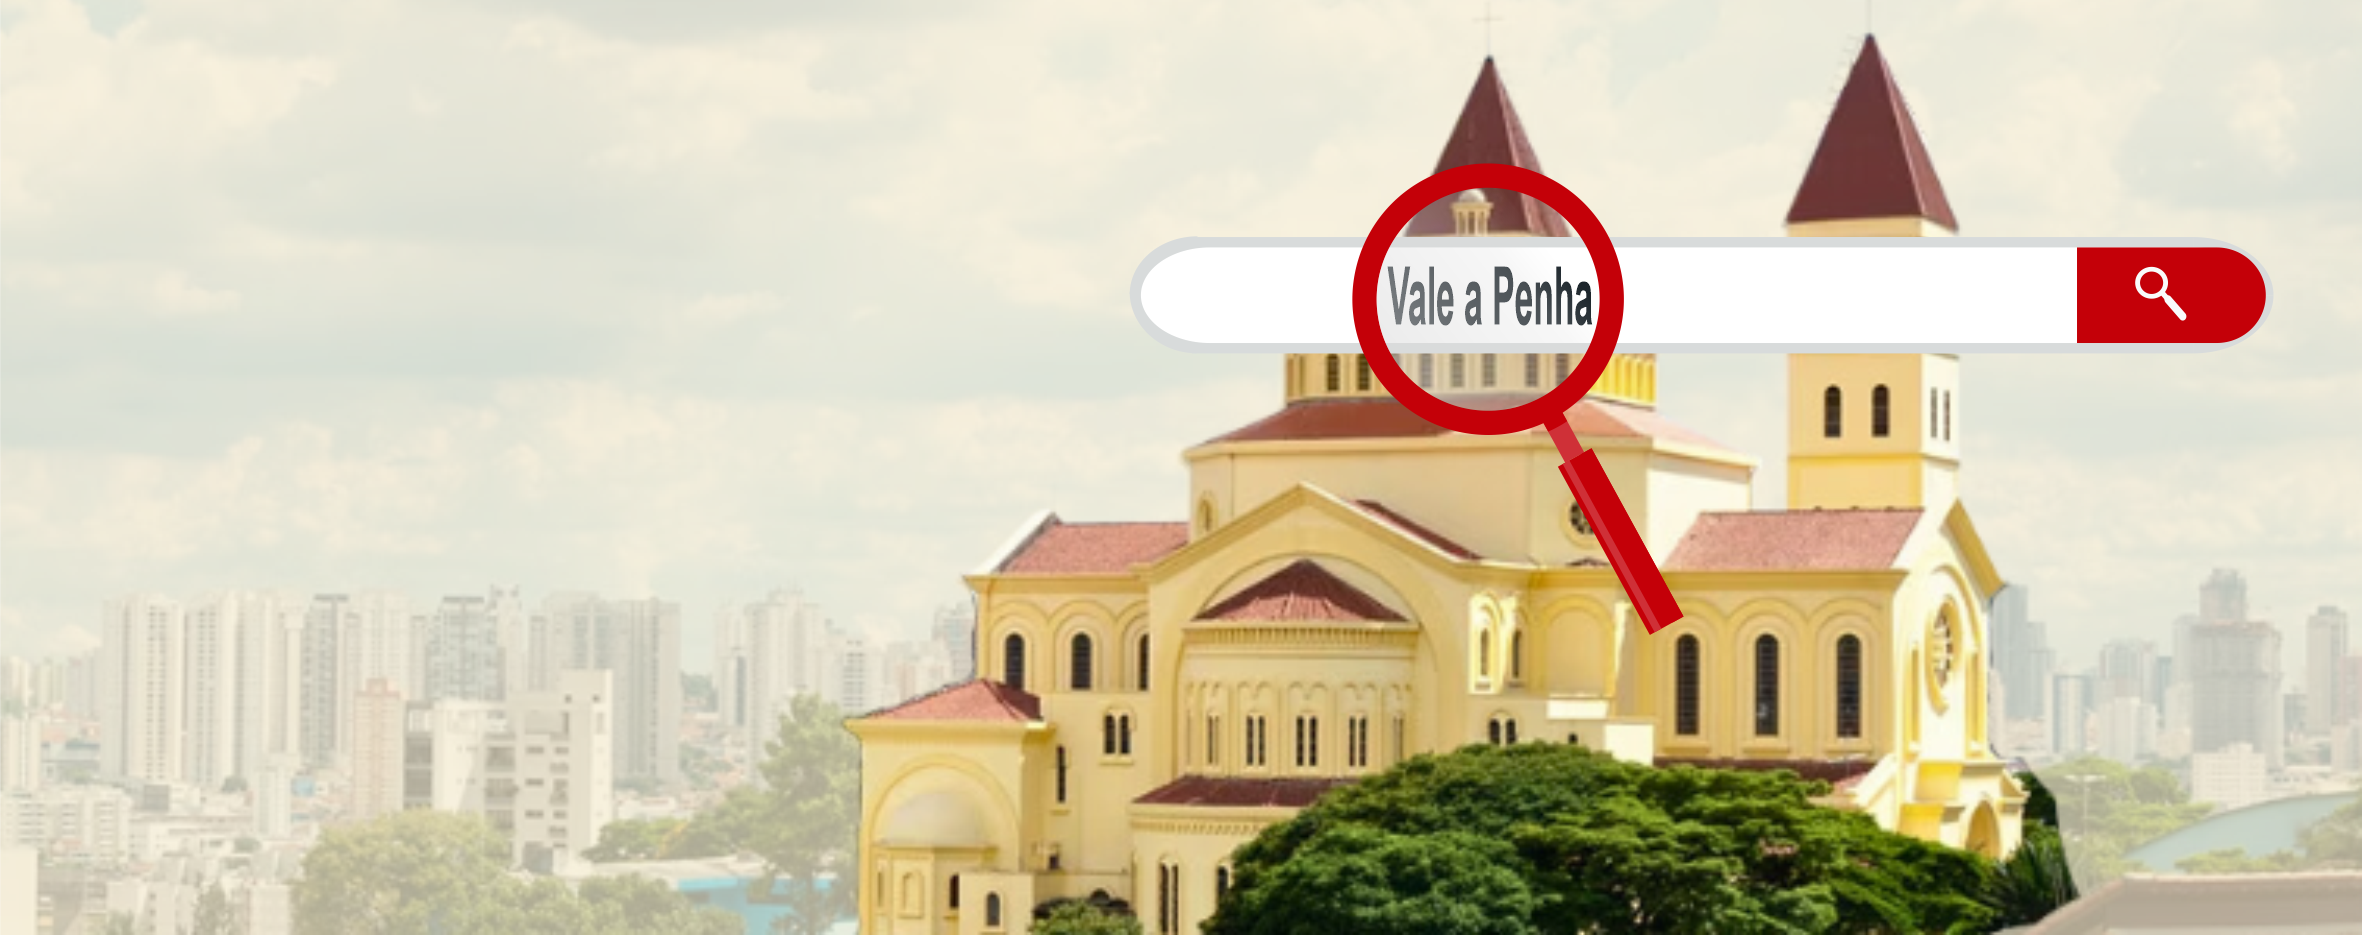
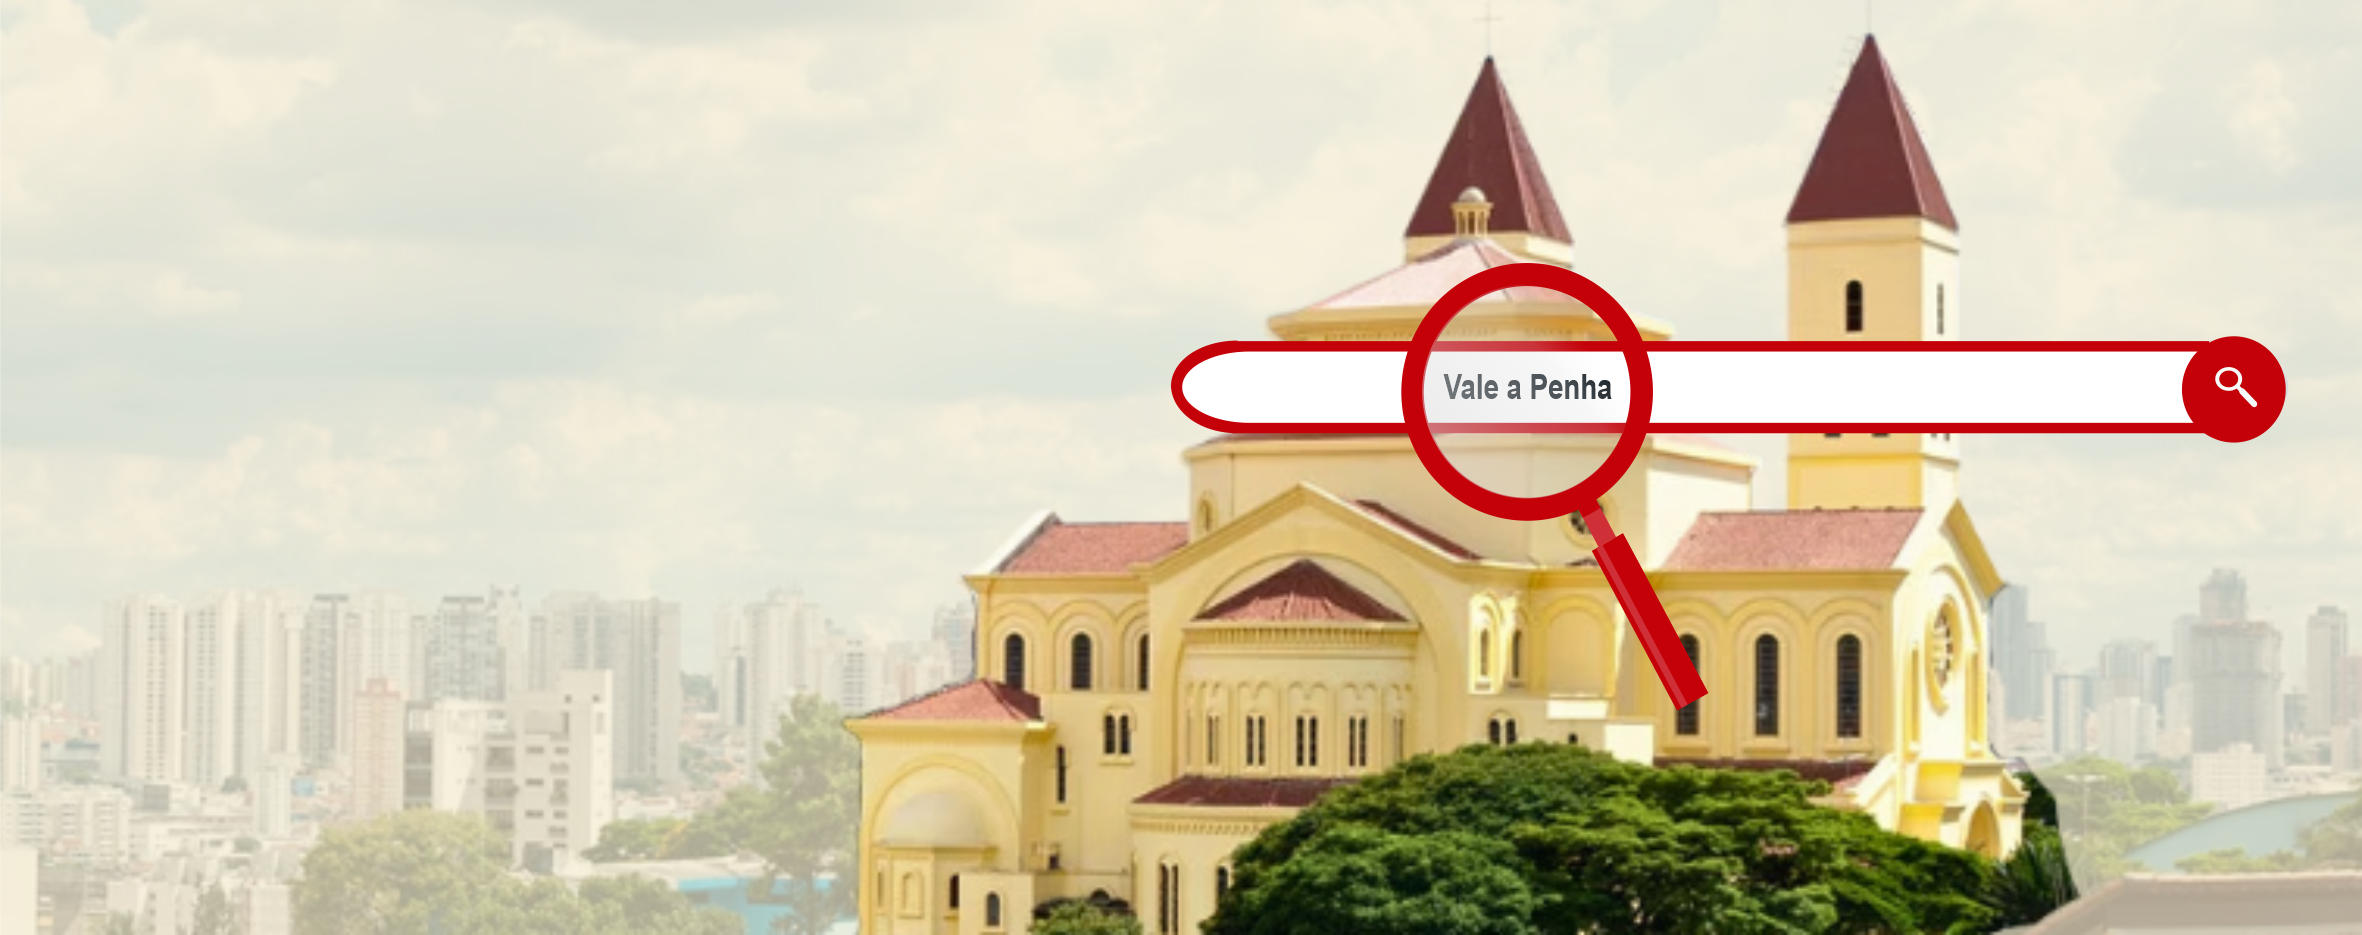
incluindo botão voltar nas páginas adm

Changed region(s): [[0.4636, 0.1551, 0.989, 0.7444]]

diff --git a/adm/adm-atualizar.php b/adm/adm-atualizar.php
@@ -4,8 +4,9 @@ ob_start();
 
 use ValeaPenha\Usuario;
 use ValeaPenha\ControleDeAcesso;
+
 require_once "../vendor/autoload.php";
-$usuario =new Usuario;
+$usuario = new Usuario;
 
 $sessao = new ControleDeAcesso;
 $sessao->verificaAcesso();
@@ -17,34 +18,34 @@ $usuario->setId($_GET['id']);
 $dados = $usuario->listarUmUsuario();
 
 /* Script para atualização */
-if(isset($_POST['atualizar'])){	
-	$usuario->setNome($_POST['nome']);
+if (isset($_POST['atualizar'])) {
+    $usuario->setNome($_POST['nome']);
 
-	$usuario->setSobrenome($_POST['sobrenome']);
+    $usuario->setSobrenome($_POST['sobrenome']);
 
-	$usuario->setCpf($_POST['cpf']);
+    $usuario->setCpf($_POST['cpf']);
 
     $usuario->setTelefone($_POST['telefone']);
 
     $usuario->setEmail($_POST['email']);
 
-    $usuario->setData($usuario->formatarDataParaBanco($_POST["data"])); 
+    $usuario->setData($usuario->formatarDataParaBanco($_POST["data"]));
 
     $usuario->setTipo($_POST['tipo']);
-	
-	//SENHA
-	if(empty($_POST['senha'])){
-		
-		$usuario->setSenha($dados['senha']);
-	}else{
-		
-		$usuario->setSenha(
-			$usuario->verificarSenha($_POST['senha'], $dados['senha'])
-		);
-	}
 
-	$usuario->atualizarUsuarios();
-	header("location:adm.php");	
+    //SENHA
+    if (empty($_POST['senha'])) {
+
+        $usuario->setSenha($dados['senha']);
+    } else {
+
+        $usuario->setSenha(
+            $usuario->verificarSenha($_POST['senha'], $dados['senha'])
+        );
+    }
+
+    $usuario->atualizarUsuarios();
+    header("location:adm.php");
 }
 
 ?>
@@ -265,6 +266,33 @@ if(isset($_POST['atualizar'])){
             color: #000000c0;
             font-size: 16px;
         }
+
+        .comerciante_atualizar {
+            margin-top: 20px;
+            text-align: center;
+            font-size: 20px;
+        }
+
+        .comerciante_atualizar a {
+            font-size: 20px;
+            font-weight: bold;
+            padding-right: 8px;
+            color: #c40008;
+            margin-left: 20px;
+            text-align: center;
+            text-decoration: none;
+            padding: 10px;
+        }
+
+        .comerciante_atualizar a:hover {
+            transform: scale(1.30);
+            transition: 0, 5s;
+            background-color: #c40008;
+            color: #FFFFFF;
+            border-radius: 10px;
+
+
+        }
     </style>
 
 </head>
@@ -277,78 +305,82 @@ if(isset($_POST['atualizar'])){
             <div class="container">
 
                 <div class="section-title">
-                    <h2>Atualizar dados do Usuário</h2>
+                    <h2>Atualizar Tipo do Usuário</h2>
 
                 </div>
 
                 <form class="comerciante__formulario  " action="" method="post" id="form">
 
-                    <div class="comerciante__sobrenome">
-                        <!-- Nome -->
+                    <!-- <div class="comerciante__sobrenome">
+                        Nome
                         <div class="comerciante__input">
                             <label for="nome">Nome:</label>
-                            <input id="nome" type="text" name="nome" placeholder="Digite seu primeiro nome"  value="<?=$dados['nome']?>" required>
+                            <input id="nome" type="text"  name="nome" placeholder="Digite seu primeiro nome"  value="<?= $dados['nome'] ?>" required>
                         </div> 
 
-                        <!-- Sobrenome -->
+                        Sobrenome
                         <div class="comerciante__input">
                             <label for="sobrenome">Sobrenome:</label>
-                            <input id="sobrenome" type="text" name="sobrenome" placeholder="Digite seu sobrenome"  value="<?=$dados['sobrenome']?>" required>
+                            <input id="sobrenome" type="text" name="sobrenome" placeholder="Digite seu sobrenome"  value="<?= $dados['sobrenome'] ?>" required>
                         </div>
                     </div>
 
                     <div class="comerciante__campos">
                         <div class="comerciante__sobrenome">
-                            <!-- CPF -->
+                            CPF
                             <div class="comerciante__input">
                                 <label for="cpf">CPF</label>
-                                <input id="cpf" type="text" name="cpf" placeholder="Digite seu CPF" required maxlength="14"  value="<?=$dados['cpf']?>" >
+                                <input id="cpf" type="text" name="cpf" placeholder="Digite seu CPF" required maxlength="14"  value="<?= $dados['cpf'] ?>" >
                             </div>
 
-                            <!-- Telefone -->
+                            Telefone
                             <div class="comerciante__input">
                                 <label for="telefone">Telefone:</label>
-                                <input id="telefone" type="text" name="telefone" placeholder="(xx) xxxxx-xxxx" required maxlength="14"  value="<?=$dados['telefone']?>" >
+                                <input id="telefone" type="text" name="telefone" placeholder="(xx) xxxxx-xxxx" required maxlength="14"  value="<?= $dados['telefone'] ?>" >
                             </div>
                         </div>
 
-                        <!-- E-mail -->
+                        E-mail
                         <div class="comerciante__input">
                             <label for="email">E-mail:</label>
-                            <input id="email" type="email" name="email" placeholder="Digite seu e-mail" required  value="<?=$dados['email']?>" >
+                            <input id="email" type="email" name="email" placeholder="Digite seu e-mail" required  value="<?= $dados['email'] ?>" >
                         </div>
 
-                        <!-- Senha -->
+                        Senha
                         <div class="comerciante__input">
                             <label for="senha">Senha:</label>
                             <input id="senha" type="password" name="senha" autocomplete="current-password" value=""placeholder="Preencha apenas se for alterar">
                         </div>
 
-                        <!-- Data de Nascimento -->
+                        Data de Nascimento
                         <div class="comerciante__input">
                             <label for="data">Data de Nascimento:</label>
-                            <input id="data" type="date" name="data" placeholder="Digite sua Data de Nascimento" required value="<?=$dados['data']?>">
-                        </div>
+                            <input id="data" type="date" name="data" placeholder="Digite sua Data de Nascimento" required value="<?= $dados['data'] ?>">
+                        </div> -->
 
 
 
-                        <div class="comerciante__input" name="tipo" id="tipo" required>
-                            <label for="tipo">Tipo:</label>
-                            <select class="comerciante__option" name="tipo" id="tipo" required>
-                                <option value=""></option>
+                    <div class="comerciante__input" name="tipo" id="tipo" required>
+                        <label for="tipo">Tipo:</label>
+                        <select class="comerciante__option" name="tipo" id="tipo" required>
+                            <option value=""></option>
 
-                                <option <?php if($dados["tipo"] === "admin" ) echo " selected ";?>  value="admin">Administrador</option>
+                            <option <?php if ($dados["tipo"] === "admin") echo " selected "; ?> value="admin">Administrador</option>
 
-                                <option <?php if($dados["tipo"] === "comerciante" ) echo " selected ";?>  value="comerciante">Comerciante</option>
-                                
-                            </select>
+                            <option <?php if ($dados["tipo"] === "comerciante") echo " selected "; ?> value="comerciante">Comerciante</option>
 
-                            
-                        </div>
+                        </select>
 
-                        <div class="botao__enviar">
-                            <button type="submit" id="submit" name="atualizar">Alterar Cadastro</button>
-                        </div>
+
+                    </div>
+
+                    <div class="botao__enviar">
+                        <button type="submit" id="submit" name="atualizar">Alterar Tipo</button>
+                    </div>
+
+                    <div class="comerciante_atualizar">
+                        <a href="adm.php">Voltar</a>
+                    </div>
 
                 </form>
 
@@ -366,7 +398,7 @@ if(isset($_POST['atualizar'])){
 
 </html>
 
-<?php 
+<?php
 /* Finalizar o Output Buffere (gerenciamento de memória de saída) */
-ob_end_flush(); 
+ob_end_flush();
 ?>

diff --git a/adm/adm.php b/adm/adm.php
@@ -109,9 +109,9 @@ if (isset($_GET['sair'])){$sessao->logout();
             <th>CPF</th>
             <th>Telefone</th>
             <th>E-mail</th>
-            <th>Tipo</th>
-            <!-- <th colspan="3">Botões</th>  -->
-            <th>Atualizar</th>
+            <!-- <th>Tipo</th> -->
+            <th colspan="2">Atualizar Tipo</th> 
+            <!-- <th>Atualizar Tipo</th> -->
             <th>Publicação</th>            
             <th>Excluir</th>
             <th>Status</th>
@@ -124,9 +124,7 @@ if (isset($_GET['sair'])){$sessao->logout();
               <td><?= $itemUsuario["cpf"] ?></td>
               <td><?= $itemUsuario["telefone"] ?></td>
               <td><?= $itemUsuario["email"] ?></td>
-              <td><?= $itemUsuario["tipo"] ?></td>
-
-              
+              <td><?= $itemUsuario["tipo"] ?> </td>              
 
               <!-- Atualizar -->
               <td class="adm__botao">

diff --git a/comerciante/comerciante.php b/comerciante/comerciante.php
@@ -280,7 +280,7 @@ if (isset($_POST['alterar_Cadastro'])) {
               <!-- 1º Instagram Link -->
               <div class="comerciante__input">
                 <label for="link_instagram">Instagram:</label>
-                <input type="url" name="link_instagram" id="link_instagram" placeholder="Link do instagram" ">
+                <input type="url" name="link_instagram" id="link_instagram" placeholder="Link do instagram" >
             </div> 
             
             
@@ -392,13 +392,9 @@ if (isset($_POST['alterar_Cadastro'])) {
 
 
 
-  <script src="https://cdnjs.cloudflare.com/ajax/libs/jquery/3.7.1/jquery.min.js"></script>
+  <script src="https://cdnjs.cloudflare.com/ajax/libs/jquery/3.7.1/jquery.min.js"></script>  
   <script src="../assets/js/comerciante.js"></script>
   <script src="../assets/js/mascara-cpf-tel.js"></script>
-
-
-
-
 
 </body>
 

diff --git a/adm/adm-publicacao.php b/adm/adm-publicacao.php
@@ -183,13 +183,13 @@ if (isset($_POST['publicar'])) {
             width: 100%;
         }
 
-        .comerciante__input input:hover {
+        /* .comerciante__input input:hover {
             outline: 1px solid #c40008;
-        }
+        } */
 
-        .comerciante__input textarea:hover {
+        /* .comerciante__input textarea:hover {
             outline: 1px solid #c40008;
-        }
+        } */
 
         .comerciante__input input:focus-visible {
             outline: none

diff --git a/inc/cabecalho.php b/inc/cabecalho.php
@@ -135,7 +135,7 @@ $pagina = basename($_SERVER['PHP_SELF']);
             <link rel="stylesheet" href="assets/css/comercio-local.css">
             <style>
                 .header {
-                    background-image: url(assets/images/banner-vc-em-foco.png);
+                    background-image: url(assets/images/banner-pesquisa.png);
                     background-size: cover;
                     background-position: center;
                 }

diff --git a/inc/rodape.php b/inc/rodape.php
@@ -11,6 +11,8 @@
             <a href="educação.php">Educação</a>
             <a href="historia.php">História</a>
             <a href="voce-em-foco.php">Você&nbsp;em&nbsp;Foco</a>
+            <a href="login.php">Login</a>
+            <a href="cadastro.php">Cadastro</a>
         </section>
         <section class="footer-emojis">
             <div class="emojis">
